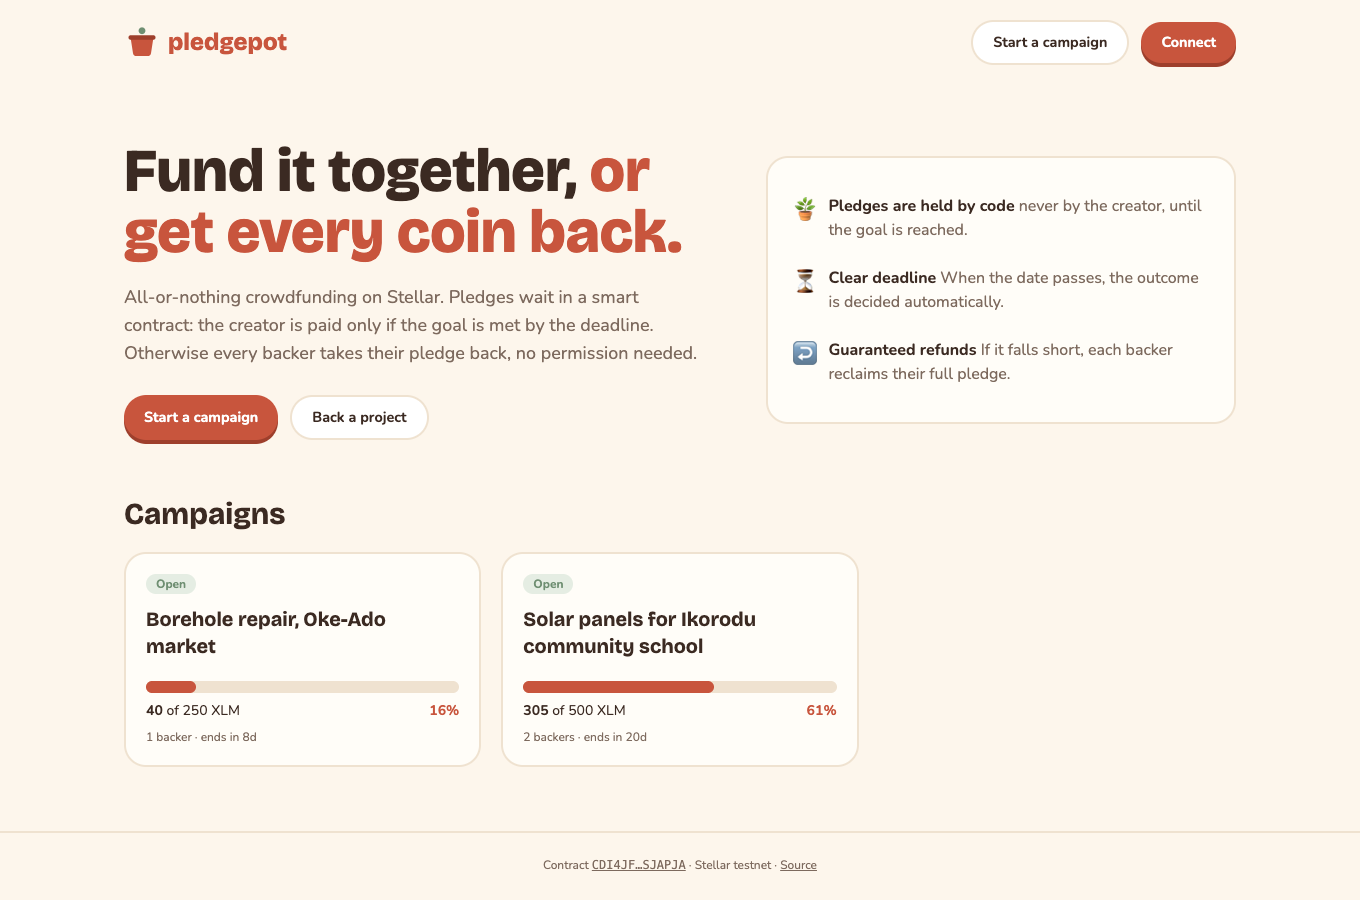
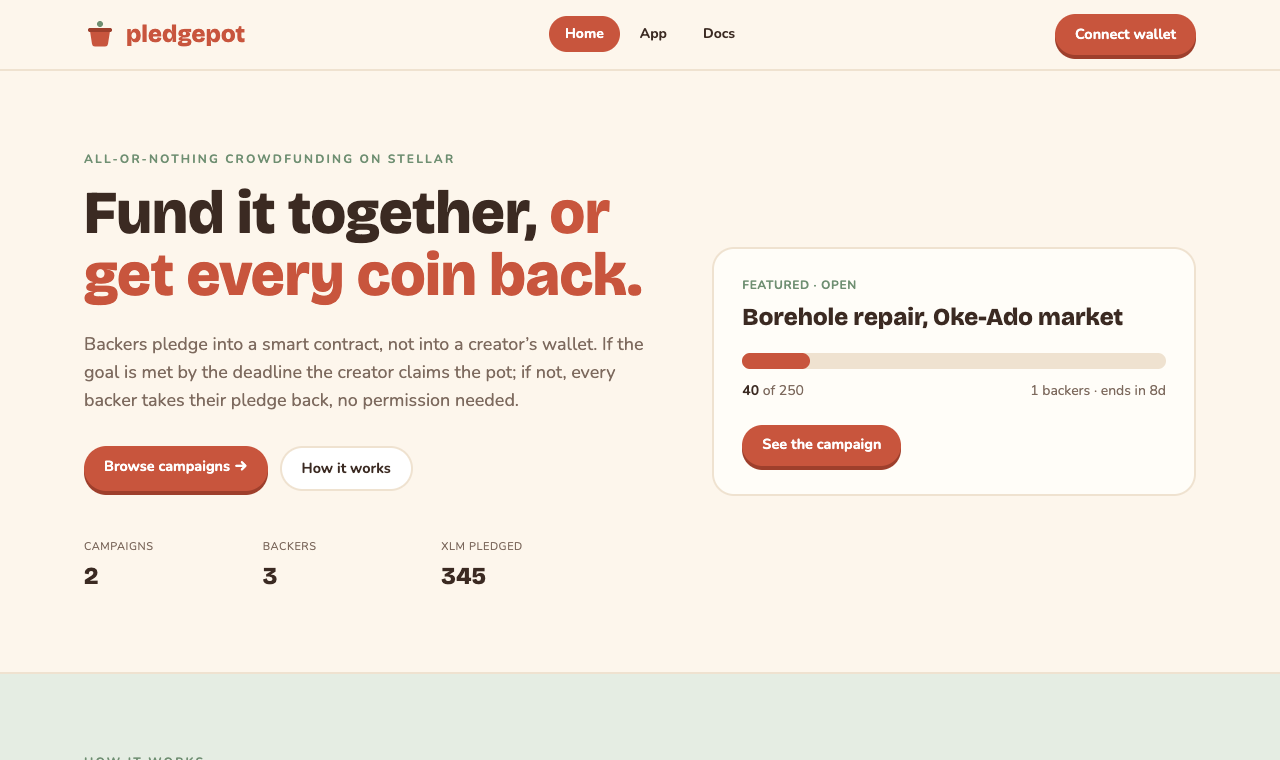
Docs: new rules and calls, refreshed screenshots

diff --git a/README.md b/README.md
@@ -12,7 +12,7 @@ passes:
 | --- | --- |
 | **Goal met** (overfunding allowed) | The creator claims everything, once |
 | **Goal missed** | Every backer takes back exactly what they pledged |
-| **Creator cancels early** | Refunds open immediately |
+| **Creator cancels early** | Refunds open immediately (only while the goal isn't met yet) |
 
 There's no way for a creator to walk away with a half-funded campaign,
 and no backer's refund depends on the creator doing anything.
@@ -36,13 +36,14 @@ State is computed from the clock and the totals, so nobody has to
 
 | Function | Who signs | Notes |
 | --- | --- | --- |
-| `create_campaign(creator, token, goal, deadline, title)` | creator | Title ≤ 100 chars |
+| `create_campaign(creator, token, goal, deadline, title)` | creator | Title ≤ 100 chars; deadline within 365 days |
 | `pledge(campaign_id, backer, amount)` | backer | While open; pledges add up |
 | `unpledge(campaign_id, backer, amount)` | backer | While open; partial or full |
 | `claim(campaign_id)` | creator | Succeeded only, once |
-| `refund(campaign_id, backer)` | backer | Failed/cancelled only, once |
-| `cancel(campaign_id)` | creator | While open |
-| `state`, `get_campaign`, `pledge_of` | anyone | Read state |
+| `refund(campaign_id, backer)` | backer | Failed/cancelled only, once; lowers the public totals |
+| `cancel(campaign_id)` | creator | While open and below the goal |
+| `set_link(campaign_id, url)` | creator | Optional description link, ≤ 200 chars |
+| `state`, `get_campaign`, `pledge_of`, `link`, `campaign_count` | anyone | Read state |
 
 Errors: `CampaignNotFound (1)`, `InvalidCampaign (2)`, `InvalidAmount (3)`,
 `NotOpen (4)`, `NotSucceeded (5)`, `NotFailed (6)`, `NothingPledged (7)`,
@@ -56,7 +57,7 @@ Events (topics → data): `("pot","created")`, `("pot","pledged", id)`,
 
 ```bash
 cd contracts
-cargo test             # 12 unit tests
+cargo test             # 17 unit tests
 stellar contract build
 stellar contract deploy --wasm target/wasm32v1-none/release/pledgepot.wasm \
   --source me --network testnet
@@ -70,11 +71,16 @@ stellar contract invoke --id <POT> --source me --network testnet -- \
 
 ![Pledgepot web app](docs/assets/web-app.png)
 
+The site has three pages: **Home** (what it does, with live testnet data), **App** (the tool itself) and **Docs** (getting started, concepts, reference and FAQ).
+
+![pledgepot app page](docs/assets/web-app-page.png)
+
 A crowdfunding site at `web/`:
 
 - **Campaign gallery** with funding progress, backer counts and time left, all read live from the contract.
 - **Campaign page**: back it with one-tap amounts, withdraw your pledge while it's open, and see your own pledge.
-- **Outcome-aware actions**: the creator claims after a successful campaign; backers get a one-click refund after a failed or cancelled one; the creator can cancel early.
+- **Outcome-aware actions**: the creator claims after a successful campaign; backers get a one-click refund after a failed or cancelled one; the creator can cancel early (until the goal is met).
+- **Shareable campaigns**: `#/app?c=<id>` opens a campaign directly, with recent pledges from contract events and a refund reminder for backers of failed campaigns.
 - **Start a campaign**: title, goal, duration and asset, with a plain-language explanation of all-or-nothing rules.
 
 ```bash
